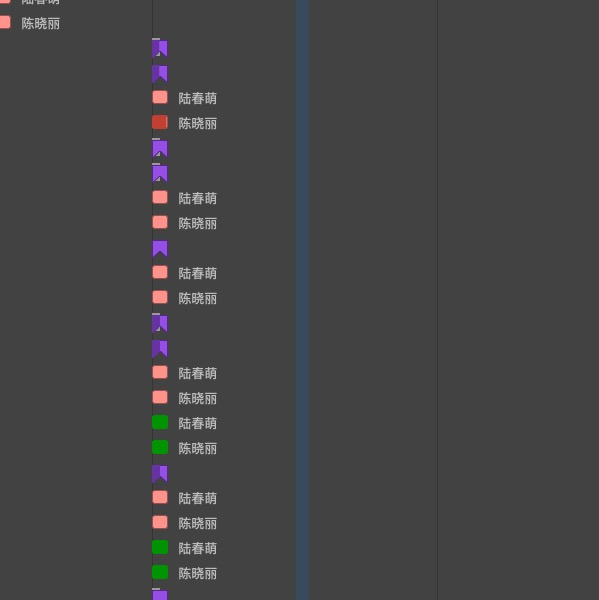
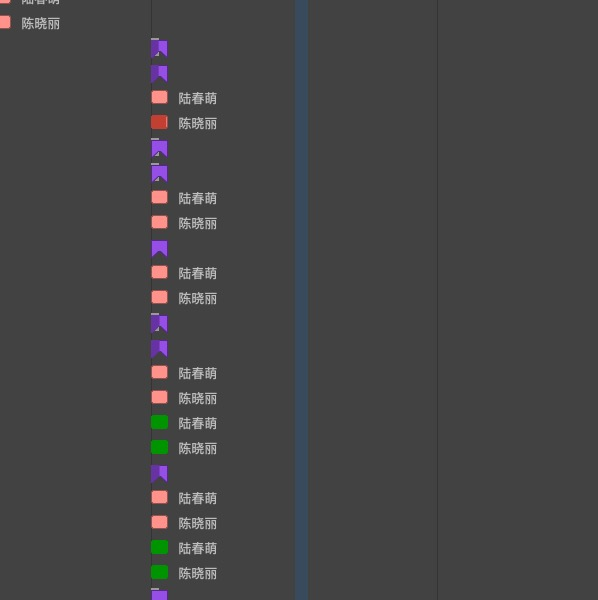
upgrade

diff --git a/v2003集成阶段/gantt.html b/v2003集成阶段/gantt.html
@@ -30,24 +30,24 @@
 	<h1>FSCv2003：甘特图</h1>
 		<div class="tablewrap"><table border="0" cellspacing="0" cellpadding="0">
 <tr>
-	<td><img src="include/gantt0,0.jpg?nocacheTag=-1571514529" border=0/></td>
-	<td><img src="include/gantt1,0.jpg?nocacheTag=-132106565" border=0/></td>
+	<td><img src="include/gantt0,0.jpg?nocacheTag=1759527630" border=0/></td>
+	<td><img src="include/gantt1,0.jpg?nocacheTag=-403638817" border=0/></td>
 </tr>
 <tr>
-	<td><img src="include/gantt0,1.jpg?nocacheTag=1423551388" border=0/></td>
-	<td><img src="include/gantt1,1.jpg?nocacheTag=-2051931728" border=0/></td>
+	<td><img src="include/gantt0,1.jpg?nocacheTag=-667086385" border=0/></td>
+	<td><img src="include/gantt1,1.jpg?nocacheTag=-1060319800" border=0/></td>
 </tr>
 <tr>
-	<td><img src="include/gantt0,2.jpg?nocacheTag=1074765043" border=0/></td>
-	<td><img src="include/gantt1,2.jpg?nocacheTag=204389591" border=0/></td>
+	<td><img src="include/gantt0,2.jpg?nocacheTag=-877033701" border=0/></td>
+	<td><img src="include/gantt1,2.jpg?nocacheTag=-1585482423" border=0/></td>
 </tr>
 <tr>
-	<td><img src="include/gantt0,3.jpg?nocacheTag=1510652437" border=0/></td>
-	<td><img src="include/gantt1,3.jpg?nocacheTag=-1496974554" border=0/></td>
+	<td><img src="include/gantt0,3.jpg?nocacheTag=2071037179" border=0/></td>
+	<td><img src="include/gantt1,3.jpg?nocacheTag=-1703608053" border=0/></td>
 </tr>
 <tr>
-	<td><img src="include/gantt0,4.jpg?nocacheTag=-2068818925" border=0/></td>
-	<td><img src="include/gantt1,4.jpg?nocacheTag=-1464872033" border=0/></td>
+	<td><img src="include/gantt0,4.jpg?nocacheTag=-1205495796" border=0/></td>
+	<td><img src="include/gantt1,4.jpg?nocacheTag=-2034361632" border=0/></td>
 </tr>
 </table>
 </div>

diff --git a/v2003集成阶段/index.html b/v2003集成阶段/index.html
@@ -32,8 +32,8 @@
 			<p class="number"><span class="data-missing">无</span></p>
 		</div>
 		<div id="completed" class="box">
-			<h2><span class="number">31%</span>已完成</h2>
-			<div id="bar"><div id="fill" style="width:31%;"></div></div>
+			<h2><span class="number">32%</span>已完成</h2>
+			<div id="bar"><div id="fill" style="width:32%;"></div></div>
 			<p><span class="label">开始：</span>2019/11/21 上午9:00</p>
 			<p><span class="label">结束日期：</span>2020/3/9 下午7:00</p>
 			<p><span class="label">差异：</span>13 周 3 天</p>
@@ -155,7 +155,7 @@
 <td>2020/1/17 上午9:00</td>
 <td>2020/2/10 下午7:00</td>
 <td>2 天</td>
-<td>0%</td>
+<td>50%</td>
 <td></td>
             </tr>
 <tr class="resource Staff">
@@ -171,7 +171,7 @@
 <td>2020/2/4 上午9:00</td>
 <td>2020/2/4 下午7:00</td>
 <td>3 天</td>
-<td>87%</td>
+<td>100%</td>
 <td></td>
             </tr>
 <tr class="resource Group">

diff --git a/v2003集成阶段/task.html b/v2003集成阶段/task.html
@@ -1378,7 +1378,7 @@
 <td>2020/2/4 上午9:00</td>
 <td>2020/2/4 下午7:00</td>
 <td>1 天</td>
-<td>87%</td>
+<td>100%</td>
 <td></td>
 <td class="total"></td>
 <td></td>
@@ -1426,7 +1426,7 @@
 <td>2020/2/4 上午9:00</td>
 <td>2020/2/4 下午7:00</td>
 <td>1 天</td>
-<td>60%</td>
+<td>100%</td>
 <td></td>
 <td class="total"></td>
 <td>李增庆</td>
@@ -1522,7 +1522,7 @@
 <td>2020/1/17 上午9:00</td>
 <td>2020/1/17 下午7:00</td>
 <td>1 天</td>
-<td>0%</td>
+<td>100%</td>
 <td></td>
 <td class="total"></td>
 <td></td>
@@ -1538,7 +1538,7 @@
 <td>2020/1/17 上午9:00</td>
 <td>2020/1/17 下午7:00</td>
 <td>1 天</td>
-<td>0%</td>
+<td>100%</td>
 <td></td>
 <td class="total"></td>
 <td>李飞</td>

diff --git a/v2003集成阶段/resource.html b/v2003集成阶段/resource.html
@@ -514,7 +514,7 @@
 <td>2020/1/17 上午9:00</td>
 <td>2020/2/10 下午7:00</td>
 <td>2 天</td>
-<td>0%</td>
+<td>50%</td>
 <td></td>
             </tr>
 <tr>
@@ -522,7 +522,7 @@
 <td>2020/1/17 上午9:00</td>
 <td>2020/1/17 下午7:00</td>
 <td>1 天</td>
-<td>0%</td>
+<td>100%</td>
 <td></td>
             </tr>
 <tr>
@@ -626,7 +626,7 @@
 <td>2020/2/4 上午9:00</td>
 <td>2020/2/4 下午7:00</td>
 <td>3 天</td>
-<td>87%</td>
+<td>100%</td>
 <td></td>
             </tr>
 <tr>
@@ -650,7 +650,7 @@
 <td>2020/2/4 上午9:00</td>
 <td>2020/2/4 下午7:00</td>
 <td>1 天</td>
-<td>60%</td>
+<td>100%</td>
 <td></td>
             </tr>
 <tr class="resource Group">
